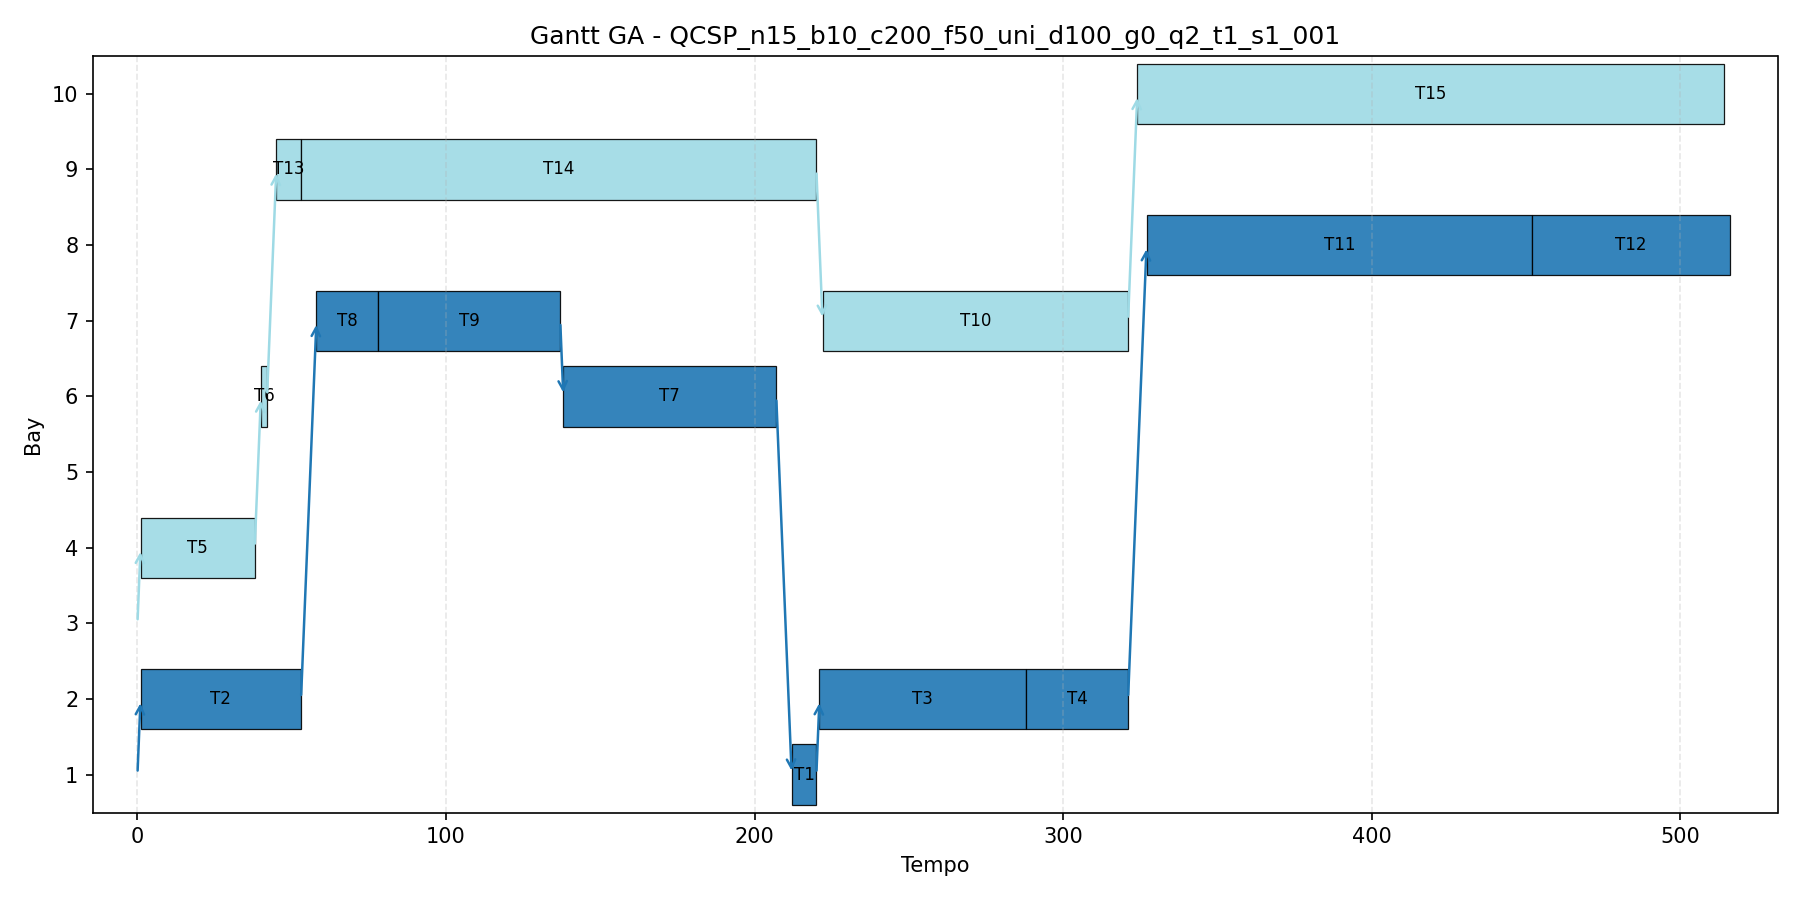
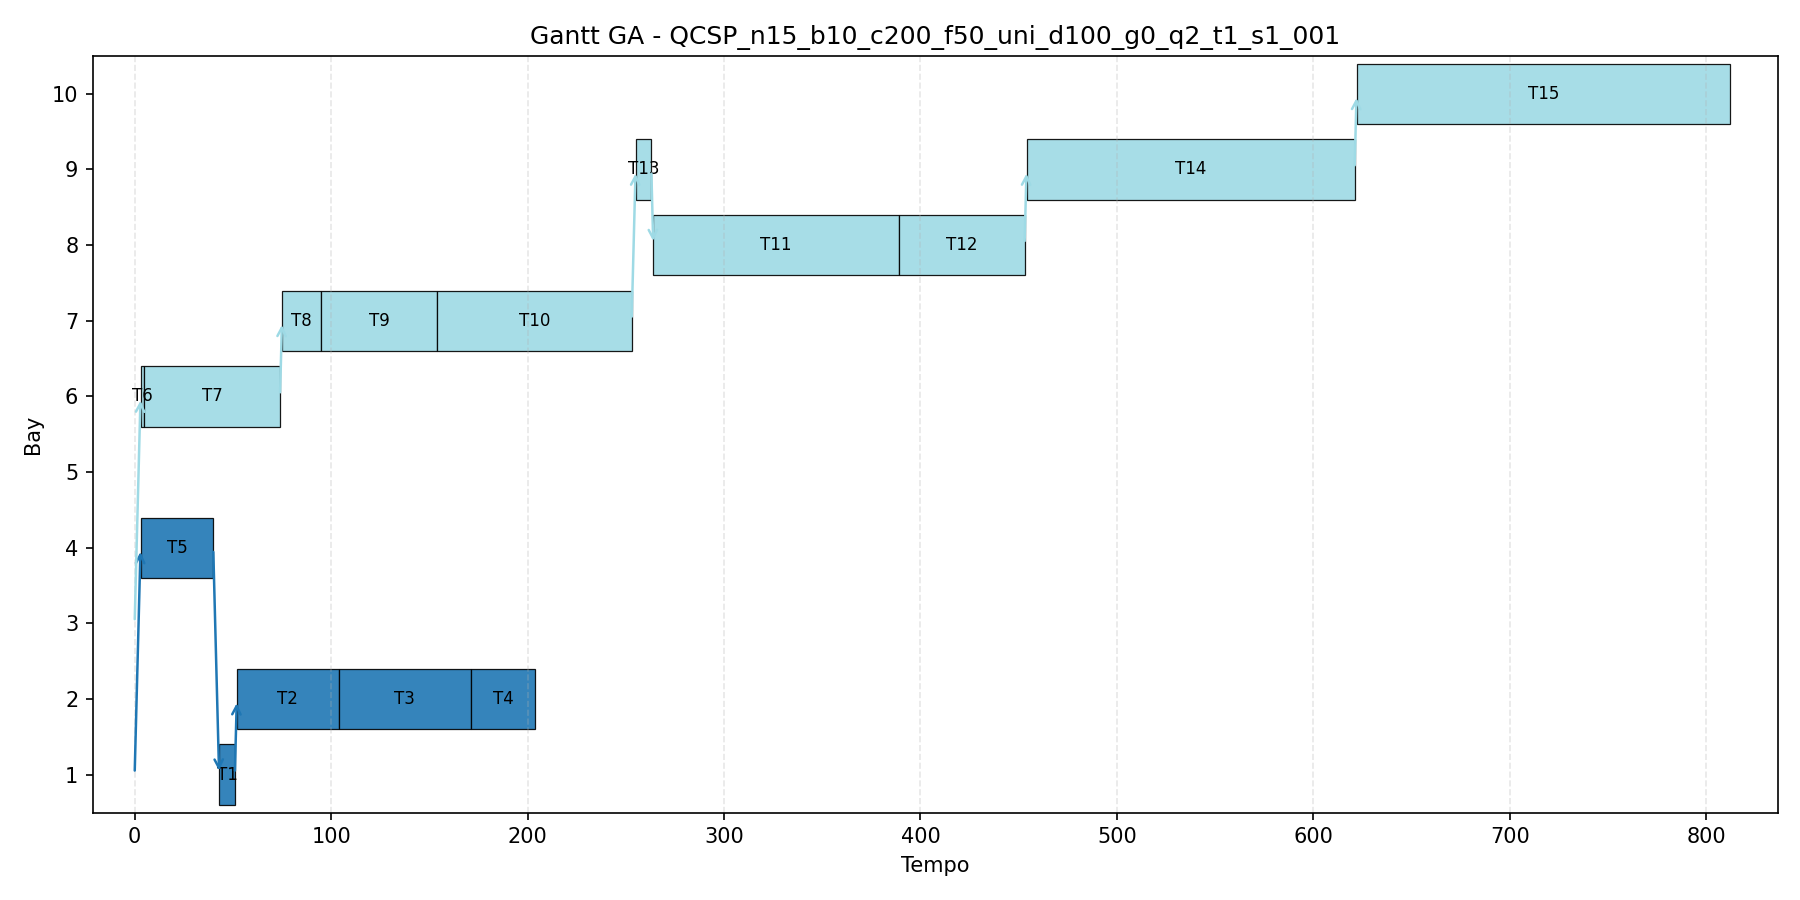
Improve crane scheduling logic in compute_start_times
Enhanced the compute_start_times function to better handle precedence, non-simultaneity, adjacency, and movement blocking between cranes. Refactored compute_start_times_from_order_matrix to use the improved logic, ensuring consistent constraint handling. Updated docstrings for clarity.

diff --git a/Modelagem.py b/Modelagem.py
@@ -71,9 +71,10 @@ def compute_start_times(
 
     Processa cada tarefa na ordem definida por encoded1. Para cada tarefa:
     - Calcula o tempo de pronto do guindaste (ready time + travel time desde última posição)
-    - Considera espera por bloqueio de movimento (não cruzamento)
-    - Se houver sobreposição com a tarefa anterior em encoded1, força espera até ela terminar
-    
+    - Considera precedência e não simultaneidade
+    - Verifica tarefas adjacentes (esquerda/direita) em execução por outros guindastes
+    - Considera bloqueio de movimento por guindastes posicionados entre origem e destino
+
     Retorna vetor start_times (tamanho n, indexado por id_tarefa - 1).
     """
     n = len(instance.processing_times)
@@ -84,19 +85,23 @@ def compute_start_times(
     last_pos = [float(instance.cranes_init_pos[i]) for i in range(q)]
 
     start_times: List[float] = [float("inf")] * n
+    task_crane: List[int] = [-1] * n
+
     for task_idx, task_id in enumerate(encoded1):
         task_id = task_id - 1
         crane_id = encoded2[task_idx] - 1
 
         move_time = instance.travel_time * abs(instance.task_bays[task_id] - last_pos[crane_id])
-        earliest_from_crane = last_finish[crane_id] + move_time
-        
+        earliest = last_finish[crane_id] + move_time
+
+        # Precedência
         earliest_from_prec = 0.0
         for pred_id, succ_id in instance.precedence:
             if succ_id == task_id + 1 and start_times[pred_id - 1] != float("inf"):
                 pred_finish = start_times[pred_id - 1] + instance.processing_times[pred_id - 1]
                 earliest_from_prec = max(earliest_from_prec, pred_finish)
 
+        # Não simultaneidade
         earliest_from_nonsim = 0.0
         for i, j in instance.nonsimultaneous:
             if i == task_id + 1 and start_times[j - 1] != float("inf"):
@@ -106,23 +111,50 @@ def compute_start_times(
                 i_finish = start_times[i - 1] + instance.processing_times[i - 1]
                 earliest_from_nonsim = max(earliest_from_nonsim, i_finish)
 
-        # Espera por bloqueio: se o caminho cruza posição atual de outro guindaste em execução
-        wait_for_block = 0.0
+        earliest = max(earliest, earliest_from_prec, earliest_from_nonsim)
+
+        # Esperas por adjacência e bloqueio de movimento
         origin_pos = float(last_pos[crane_id])
         target_pos = float(instance.task_bays[task_id])
-        for other_id in range(q):
-            if other_id == crane_id:
-                continue
-            other_pos = float(last_pos[other_id])
-            if (origin_pos <= other_pos <= target_pos) or (origin_pos >= other_pos >= target_pos):
-                wait_for_block = max(wait_for_block, last_finish[other_id])
+        safety = float(instance.safety_margin)
 
-        start_times[task_id] = max(
-            earliest_from_crane,
-            earliest_from_prec,
-            earliest_from_nonsim,
-            wait_for_block,
-        )
+        while True:
+            wait_until = earliest
+
+            # Adjacent tasks (esquerda/direita) em execução por outros guindastes
+            for other_task in range(n):
+                if other_task == task_id:
+                    continue
+                if start_times[other_task] == float("inf"):
+                    continue
+                if task_crane[other_task] == crane_id + 1:
+                    continue
+
+                bay_dist = abs(instance.task_bays[other_task] - instance.task_bays[task_id])
+                if bay_dist <= safety:
+                    other_start = start_times[other_task]
+                    other_finish = other_start + instance.processing_times[other_task]
+                    if other_start <= earliest < other_finish:
+                        wait_until = max(wait_until, other_finish)
+
+            # Bloqueio por guindastes entre origem e destino
+            for other_id in range(q):
+                if other_id == crane_id:
+                    continue
+                if earliest < last_finish[other_id]:
+                    other_pos = float(last_pos[other_id])
+                    min_pos = min(origin_pos, target_pos) - safety
+                    max_pos = max(origin_pos, target_pos) + safety
+                    if min_pos <= other_pos <= max_pos:
+                        wait_until = max(wait_until, last_finish[other_id])
+
+            if wait_until == earliest:
+                break
+
+            earliest = wait_until
+
+        start_times[task_id] = earliest
+        task_crane[task_id] = crane_id + 1
         last_finish[crane_id] = start_times[task_id] + instance.processing_times[task_id]
         last_pos[crane_id] = instance.task_bays[task_id]
 
@@ -189,43 +221,25 @@ def compute_start_times_from_order_matrix(
     instance: QCSPInstance,
     order_matrix: List[List[int]],
 ) -> List[float]:
-    """Calcula tempos de início a partir da matriz de ordem e restrições de precedência.
+    """Calcula tempos de início a partir da matriz de ordem.
 
-    Processa cada guindaste em sequência. Para cada tarefa na ordem:
-    - Calcula o tempo de pronto do guindaste (ready time + travel time desde última posição)
-    
-    Retorna vetor start_times (tamanho n, indexado por id_tarefa - 1).
+    Converte a matriz de ordem em codificação (encoded1/encoded2) preservando
+    a sequência por guindaste e aplica o mesmo cálculo de start_times.
     """
-    n = len(instance.processing_times)
-    
-    # Inicializar start_times com -1 para detectar tarefas não agendadas
-    start_times: List[float] = [-1.0] * n
-    
-    # Processar cada guindaste em sequência
+    encoded1: List[int] = []
+    encoded2: List[int] = []
+
     for crane_idx, row in enumerate(order_matrix):
-        last_finish = float(instance.cranes_ready[crane_idx])
-        last_pos = instance.cranes_init_pos[crane_idx]
-        
         for task_id in row:
             if task_id == 0:
                 continue
-            
-            task_idx = task_id - 1
-            move_time = instance.travel_time * abs(instance.task_bays[task_idx] - last_pos)
-            earliest_from_crane = last_finish + move_time
-            
-            # Garantir que precedências são respeitadas
-            earliest_from_prec = 0.0
-            for pred_id, succ_id in instance.precedence:
-                if succ_id == task_id and start_times[pred_id - 1] >= 0:
-                    pred_finish = start_times[pred_id - 1] + instance.processing_times[pred_id - 1]
-                    earliest_from_prec = max(earliest_from_prec, pred_finish)
-            
-            start_times[task_idx] = max(earliest_from_crane, earliest_from_prec)
-            last_finish = start_times[task_idx] + instance.processing_times[task_idx]
-            last_pos = instance.task_bays[task_idx]
-    
-    return start_times
+            encoded1.append(task_id)
+            encoded2.append(crane_idx + 1)
+
+    if not encoded1:
+        return []
+
+    return compute_start_times(instance, encoded1, encoded2)
 
 def compute_finish_times(
     instance: QCSPInstance,
